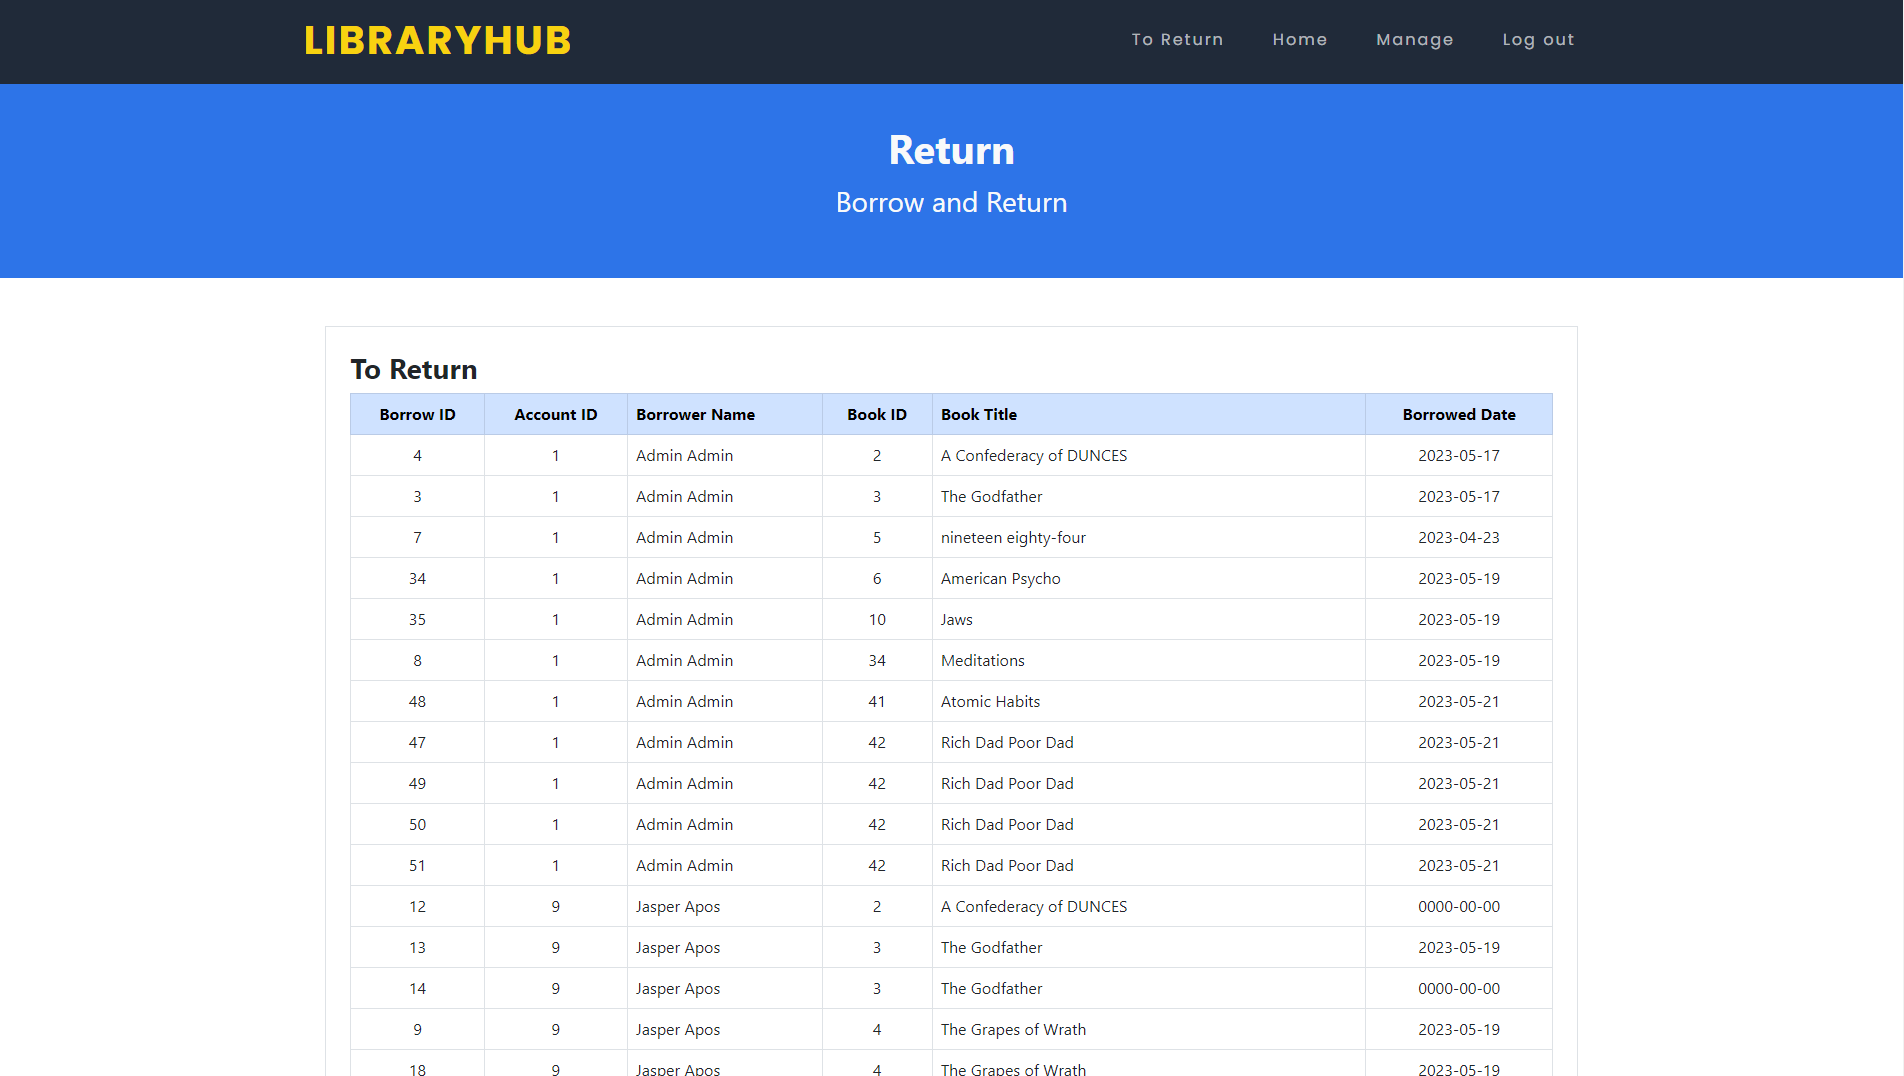
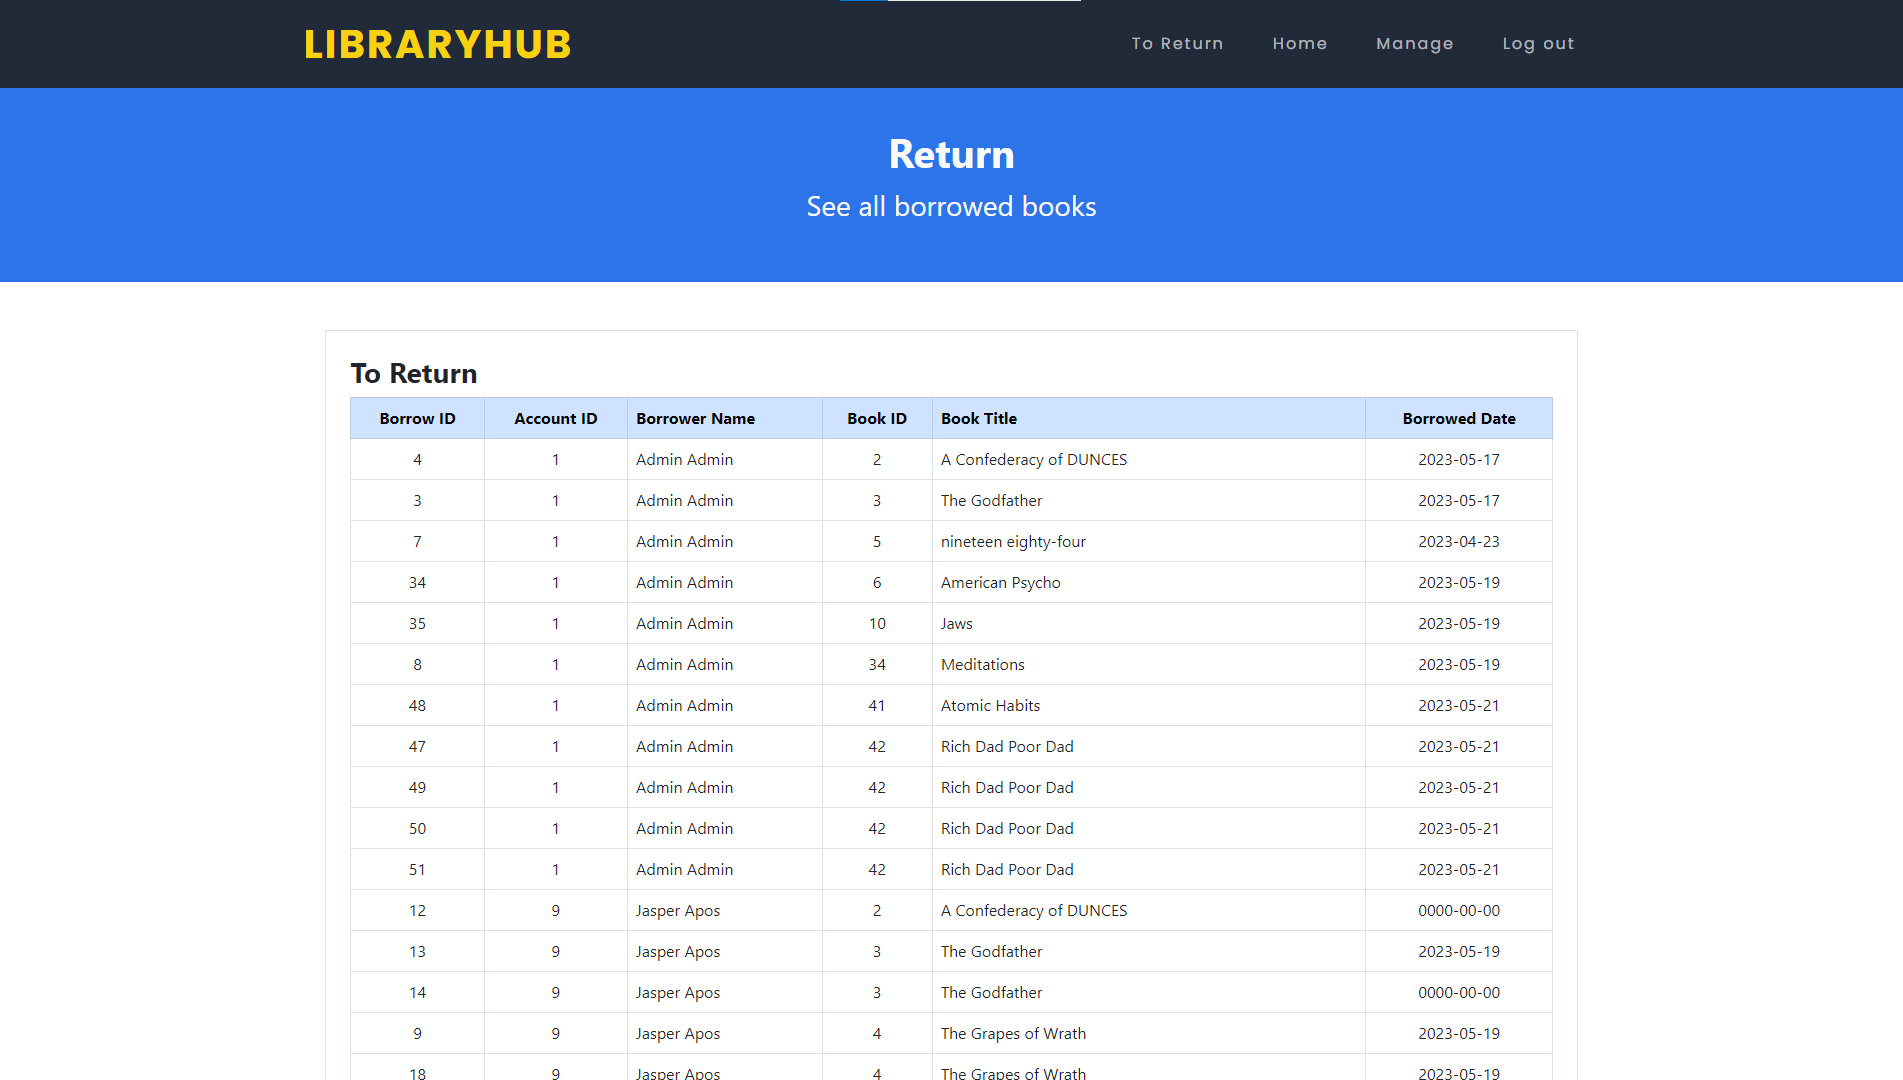
Updated

diff --git a/return.php b/return.php
@@ -29,7 +29,7 @@ $user_data = check_login($con);
     <section class="text-light p-4 text-center d-flex justify-content-center borrow mb-5">
         <div class="container my-3">
             <h1 class="fw-bold">Return</h1>
-            <p class="fs-3">Borrow and Return</p>
+            <p class="fs-3">See all borrowed books</p>
         </div>
     </section>
 
